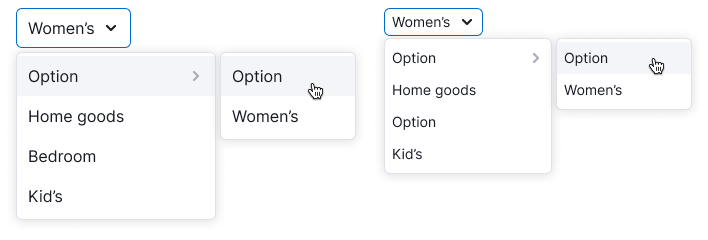
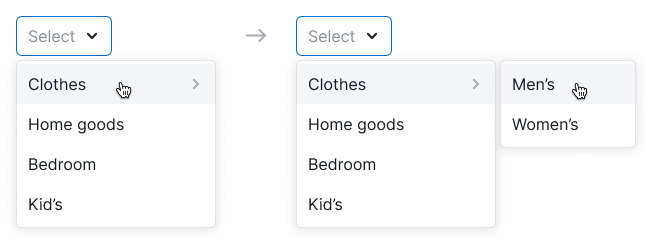
[website] added info about selected item in nested menu

diff --git a/website/docs/components/dropdown-menu/dropdown-menu.md b/website/docs/components/dropdown-menu/dropdown-menu.md
@@ -229,19 +229,26 @@ Table: Fixed item examples
 | Notice            | ![fixed-notice](static/fixed-notice.png) ![fixed-notice-paddings](static/notice-paddings.png) | The notice title should have the same size as the text has and `font-weight: var(--bold)`.                                                                                           |
 | Button            | ![fixed-button](static/fixed-button.png)                                                      |                                                                                                                                                                                       |
 
-## Nested lists and items
+## Nested dropdown menus
 
-The item of the list can have a list of items inside. In this case, it should have the `ChevronRight` icon after the text.
+The menu item can have a nested menu. In this case, it should have the `ChevronRight` icon to indicate the nesting.
 
-![second-level](static/second-level.png)
+![](static/second-level.png)
 
-**The maximum nesting level is three, but it's best to avoid nesting as it can be uncomfortable to work with long lists.** If there is enough space, nested lists will drop to the right. If there isn't enough space, they will drop to the left.
+**The maximum recommended nesting level is two, but it's better to avoid nesting altogether because large menus can be inconvenient to work with.** If there's sufficient space, nested lists will drop to the right; otherwise, they will drop to the left.
 
-Nested groups will be hidden after a delay of 0.3 seconds in the following cases:
+Nested menus hide after the 0.3 seconds delay in the following cases:
 
-- When the user hovers over another item in the parent list.
-- When the mouse cursor moves away from the dropdown.
+- When user hovers over another item in the parent list.
+- When mouse cursor moves away from the dropdown.
 - When the entire dropdown closes (for example, by pressing the `Esc` button).
 
-If you select a nested item, only its name will be displayed in the trigger, without the name of the parent item.
+If user selects a nested item, only its name will be displayed in the trigger, without the name of the parent item.
 
+### Selected item in nested menu
+
+If an item in a submenu is selected, the submenu stays hidden until the user opens it.
+
+To prevent inconvenience for users with small screens, avoid expanding the entire chain of submenus when opening a dropdown with a selected item in such a menu.
+
+![](static/second-level-selected.png)
